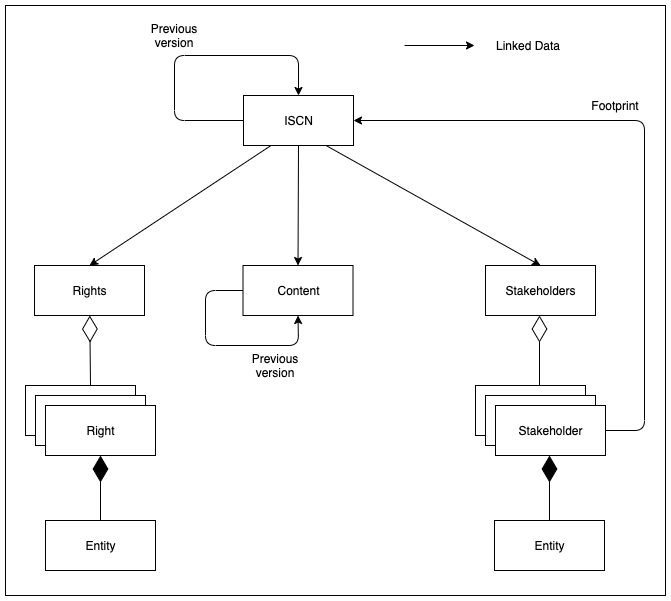
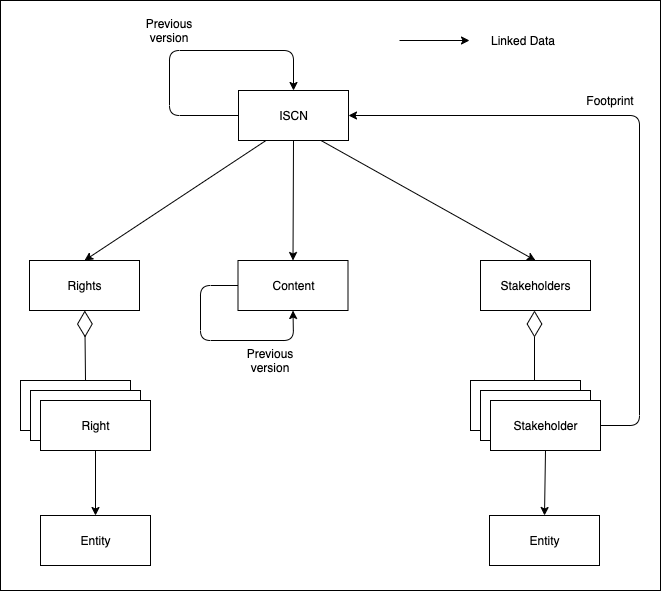
Update the image of the ISCN architecture

diff --git a/README.md b/README.md
@@ -33,7 +33,7 @@ Linked data is structured data that can be looked up via some methods, HTTP, RDF
 ## ISCN Architecture
 The complete ISCN registration is consist of a kernel [ISCN](schema/iscn/v1.md) core metadata to record the unique global identifier and maintain the stakeholders, the intellectual property rights and the content metadata by [Stakeholder](schema/stakeholder/v1.md), [Rights](schema/rights/v1.md) and [Content](schema/content/v1.md) corresponsibly. The architecture of an ISCN is shown below:
 
-![ISCN architecture](https://gateway.pinata.cloud/ipfs/QmbZGeySgjWPRA9dmFqnzUQe1xBU79yZ9pkHSCoqR9ou9j)
+![ISCN architecture](https://gateway.pinata.cloud/ipfs/QmT3gD8KvowzpaU2n4ppc7EHnJ7rgqkbRCqgKmdvYHSTiv)
 
 ## ISCN content registry
 A registry is a service provider for the ISCN registration, and a registry should provide service to register a digital content with metadata that follows the ISCN specification and to query. If any entities want to become a registry for ISCN, they should reserve a code for their registry in [here](https://github.com/likecoin/iscn-registry).
